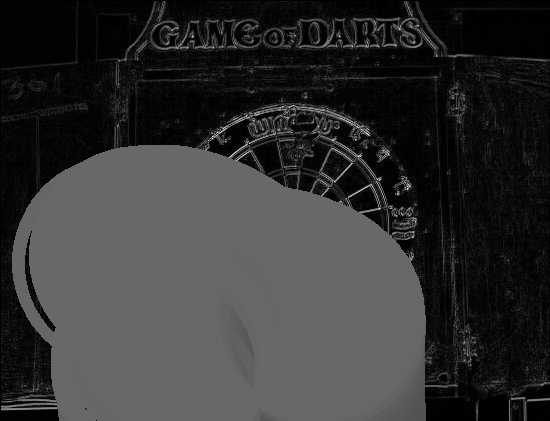
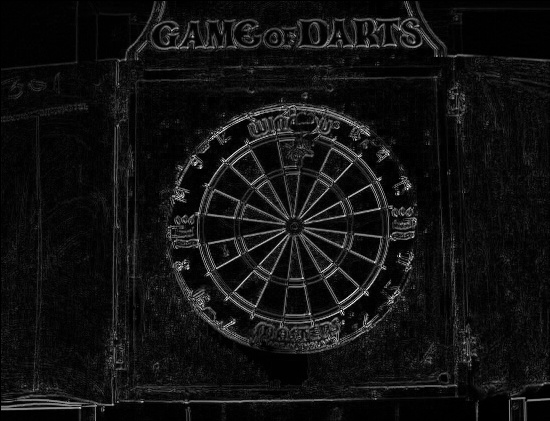
25th

diff --git a/detect_dart_with_hough.cpp b/detect_dart_with_hough.cpp
@@ -36,7 +36,7 @@ Rect vect_to_rect(vector<int> vect);
 int calculate_all();
 void sobel(cv::Mat &input, Mat_<float> kernel, cv::Mat &convo);
 void magSobel(cv::Mat &inputx, cv::Mat &inputy, cv::Mat &mag);
-void hough_circle(Mat &mag_frame, Mat &hough_circles);
+int ***hough_circle(Mat &mag_frame);
 void hough_ellipse(Mat &mag_frame);
 void hough_line(Mat &mag_frame, Mat &hough_lines);
 void hough_clustered_lines(Mat &mag_frame);
@@ -60,6 +60,21 @@ int main( int argc, const char** argv ){
 	return 0;
 }
 
+int ***malloc3dArray(int dim1, int dim2, int dim3)
+{
+    int i, j, k;
+    int ***array = (int ***) malloc(dim1 * sizeof(int **));
+
+    for (i = 0; i < dim1; i++) {
+        array[i] = (int **) malloc(dim2 * sizeof(int *));
+	for (j = 0; j < dim2; j++) {
+  	    array[i][j] = (int *) malloc(dim3 * sizeof(int));
+	}
+
+    }
+    return array;
+}
+
 int calculate_all(){
     for (int imgnum = 0; imgnum<16; imgnum++){
          string filename =  "dart"+to_string(imgnum)+".jpg";
@@ -71,22 +86,25 @@ int calculate_all(){
     }
 }
 
-void hough_circle(cv::Mat &mag_frame, cv::Mat &hough_circles){
+int ***hough_circle(cv::Mat &mag_frame){
     //Calculate hough space for circles
     //Threshold
     //If above threshold, return true
 
-    int x = mag_frame.rows / 2;
-    int y = mag_frame.cols / 2;
-    int radius = min(x,y) / 2;  // can be max half the size of the smallest dimension
-std::cout << mag_frame.rows << ',' << mag_frame.cols << ',' << radius  << std::endl;
-std::vector<vector<vector<float>>> accu;
+    const int x = mag_frame.rows / 2;
+    const int y = mag_frame.cols / 2;
+    const int radius = min(x,y) / 2;  // can be max half the size of the smallest dimension
+    int ***accu;
+    accu = malloc3dArray(x, y, radius); 
+
+std::cout << x << ',' << y << ',' << radius  << std::endl;
+    
 
     // Look for strong edges
     for( int i = 0; i < mag_frame.rows; i++){   
         for( int j = 0; j < mag_frame.cols; j++){
-            if(mag_frame.at<float>(i, j) > 250) {
-                std::cout << mag_frame.at<float>(i,j) << std::endl;
+            if(mag_frame.at<float>(j, i) > 250) {
+                std::cout << mag_frame.at<float>(j , i) << std::endl;
                 // If edge is strong, try ALL circles which have THAT point on its circumference
                 for( int r = 20; r < radius; r++){
                      for( float t = 0; t < 2*PI; t = t + 0.1) {
@@ -94,8 +112,10 @@ std::vector<vector<vector<float>>> accu;
                           int a = i - r*cos(t);
                           int b = j - r*sin(t);
                           // Check that the radius doesn't exceed the boarder
-                          if((a-r >0) & (b-r >0) & (a+r < mag_frame.rows) &  (b+r < mag_frame.cols)){
+                          if((a-r >0) && (b-r >0) && (a+r < mag_frame.rows) && (b+r < mag_frame.cols)){
                              // For each temporary circle, look around circumference and sum the votes
+                             //                 std::cout <<'+'<< endl;
+
                              int votes = 0;
                              for( float tempT = 0; tempT < 2*PI; tempT = tempT + 0.3) {
 
@@ -104,8 +124,9 @@ std::vector<vector<vector<float>>> accu;
                               }
                               // Threshold
                               if(votes > 1000) {
-                              std::cout << i << ',' << j <<'_'<< a << ',' << b <<',' <<  r << '_' << votes  << std::endl;
-                              circle(mag_frame, Point(a,b), r, r, 10);
+                                 std::cout << i << ',' << j <<'_'<< a << ',' << b <<',' <<  r << '_' << votes  << std::endl;
+	                         //accu[a][b][r] = votes;
+                                 //circle(mag_frame, Point(a,b), r, r, 10);
                               }
                           }
                       }
@@ -113,9 +134,8 @@ std::vector<vector<vector<float>>> accu;
              }
           }
     }
-	imwrite( "mag_detected.jpg", mag_frame );
-
-
+    imwrite( "mag_detected.jpg", mag_frame );
+    return accu;
 }
 
 
@@ -169,8 +189,8 @@ void hough_clustered_lines(Mat &frame){
 
         imwrite( "Mag.jpg", mag );
 
-        Mat hough_circles; 
-        hough_circle( mag, hough_circles);
+        int ***hough_circles;
+        hough_circles = hough_circle( mag );
 
 	//Draw detected dartboards from cascade for comparison
 	for (int i = 0; i < detected_dartboards.size(); i++){
@@ -235,6 +255,8 @@ void magSobel(cv::Mat &inputx, cv::Mat &inputy, cv::Mat &mag)
 {
 
   	// intialise the output using the input
+  	Mat temp;
+	temp.create(inputx.size(), CV_32FC1);
         mag.create(inputx.size(), CV_32FC1);
 
 	float magmin = 1000;
@@ -242,12 +264,13 @@ void magSobel(cv::Mat &inputx, cv::Mat &inputy, cv::Mat &mag)
 
 	for ( int i = 0; i < inputx.rows; i++ )
 	{	
-	  for( int j = 0; j < inputx.cols; j++ )
+                for( int j = 0; j < inputx.cols; j++ )
 		{
 		  float magx = inputx.at<float>(i, j);
 		  float magy = inputy.at<float>(i, j);
 		  float magTemp = abs(magx) + abs(magy); // This is a quicker approximation of magnitude
-		  mag.at<float>(i, j) = magTemp;		           
+		  temp.at<float>(i, j) = magTemp;	
+	          	           
 
 		  // Finding min & max values (for normalisation)
 		  if(magTemp > magmax) { magmax = magTemp; }
@@ -259,9 +282,9 @@ void magSobel(cv::Mat &inputx, cv::Mat &inputy, cv::Mat &mag)
 	for ( int i = 0; i < inputx.rows; i++ )
 	  {	
 	    for( int j = 0; j < inputx.cols; j++ )
-	      {
-	  	float normMag = ((mag.at<float>(i, j) - magmin) * 255)/ (magmax - magmin);
-	      	mag.at<float>(i, j) =  normMag;
+	      {	  
+	          float normMag = (((temp.at<float>(i, j) - magmin) * 255) / (magmax - magmin));
+	      	  mag.at<float>(i, j) =  normMag;
 	      }		
 	  }
 }
